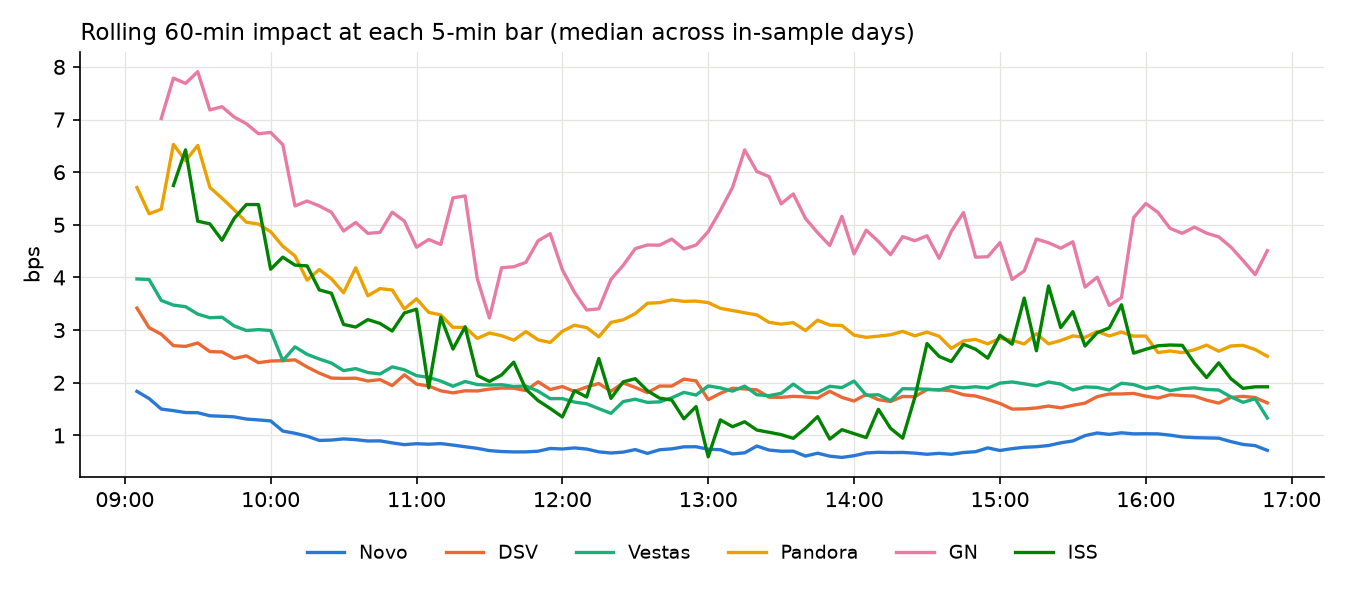
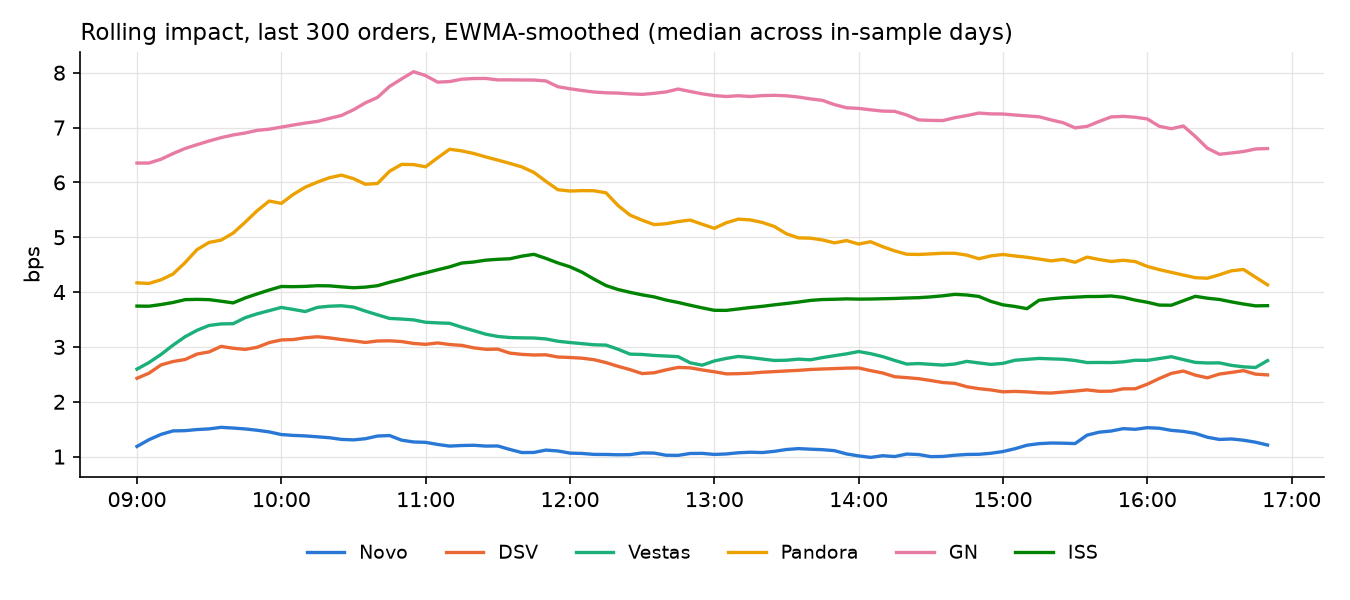
Use last-300-orders rolling impact with EWMA smoothing

diff --git a/analysis/05_price_impact.py b/analysis/05_price_impact.py
@@ -269,32 +269,46 @@ plt.close(fig)
 
 # %% [markdown]
 # ## Intraday rolling impact (joinable to bars_5min on stock + ts)
-# At each 5-min bar start tau, re-estimated from orders in [tau - 60 min, tau)
-# whose mid return is complete before tau (same day only; the 09:00 bar is NaN).
-# - reg: mid return on sign_t..sign_{t-5}, impact = sum of coefficients (>= 50 orders)
-# - var: Hasbrouck VAR(5), 20-order cumulative IRF (>= 100 orders)
+# At each 5-min bar start tau: Hasbrouck VAR(5) on the last N_ROLL orders whose
+# mid return is complete before tau (window may span the previous day; returns
+# and lags never cross a day), 20-order cumulative IRF. Smoothed with an EWMA
+# over bars (half-life EWM_HALFLIFE bars, fixed a priori), which uses only
+# current and past estimates.
 
 # %% Rolling estimates
+N_ROLL, EWM_HALFLIFE = 300, 6
 bars5 = pd.read_parquet(
     config.PROCESSED / "bars_5min.parquet", columns=["stock", "date", "ts", "sample"]
 )
 roll = []
 for stock in config.STOCKS:
     ev = order_events(pd.read_parquet(config.PROCESSED / f"signed_{stock}.parquet"))
-    starts = bars5.loc[bars5["stock"] == stock, "ts"]
-    roll.append(rolling_impact(ev, starts).assign(stock=stock))
+    r = rolling_impact(ev, bars5.loc[bars5["stock"] == stock, "ts"], n_orders=N_ROLL)
+    r["impact_roll_ewm_bps"] = (
+        r["impact_roll_var_bps"].ewm(halflife=EWM_HALFLIFE, ignore_na=True).mean()
+    )
+    roll.append(r.assign(stock=stock))
 roll = bars5.merge(pd.concat(roll, ignore_index=True), on=["stock", "ts"], how="left")
+roll["roll_window_min"] = roll["roll_window_span"].dt.total_seconds() / 60
 roll[
-    ["stock", "ts", "impact_roll_reg_bps", "impact_roll_var_bps", "roll_n_orders"]
+    ["stock", "ts", "impact_roll_var_bps", "impact_roll_ewm_bps", "roll_window_min"]
 ].to_parquet(config.PROCESSED / "impact_intraday_5min.parquet", index=False)
-cov = roll.groupby("stock")[["impact_roll_reg_bps", "impact_roll_var_bps"]].apply(
-    lambda x: 100 * x.notna().mean()
+cov = (
+    roll.groupby("stock")
+    .agg(
+        pct_bars_raw=("impact_roll_var_bps", lambda x: 100 * x.notna().mean()),
+        pct_bars_ewm=("impact_roll_ewm_bps", lambda x: 100 * x.notna().mean()),
+        first_estimate=(
+            "ts",
+            lambda x: x[roll.loc[x.index, "impact_roll_var_bps"].notna()].min(),
+        ),
+        median_window_min=("roll_window_min", "median"),
+        pct_windows_span_prev_day=("roll_window_min", lambda x: 100 * (x > 475).mean()),
+    )
+    .reindex(list(config.STOCKS))
 )
-print(
-    "Coverage, % of 5-min bars with an estimate:\n",
-    cov.reindex(list(config.STOCKS)).round(1).to_string(),
-    "\n",
-)
+cov.to_csv(config.TABLES / "05_intraday_impact_coverage.csv", float_format="%.1f")
+print(f"Coverage of the last-{N_ROLL}-orders impact:\n", cov.round(1).to_string(), "\n")
 
 # %% Within-stock variation and persistence vs the daily VAR (in-sample)
 r_is = roll[roll["sample"] == "IS"].copy()
@@ -311,18 +325,16 @@ for stock in config.STOCKS:
         "daily_var_sd_across_days": dv.std(),
         "daily_var_ar1": dv.autocorr(),
     }
-    for m in ["impact_roll_reg_bps", "impact_roll_var_bps"]:
+    for m, tag in [("impact_roll_var_bps", "raw"), ("impact_roll_ewm_bps", "ewm")]:
         x = s[m]
         within = x - s.groupby("date")[m].transform("mean")
-        g = s.groupby("date")[m]
-        day_mean = g.mean()
-        tag = "reg" if "reg" in m else "var"
+        day_mean = s.groupby("date")[m].mean()
         row |= {
             f"{tag}_mean": x.mean(),
             f"{tag}_sd": x.std(),
             f"{tag}_pct_var_within_day": 100 * within.var() / x.var(),
-            f"{tag}_ac_5min": x.corr(g.shift(1)),
-            f"{tag}_ac_60min": x.corr(g.shift(12)),  # non-overlapping windows
+            f"{tag}_ac_1bar": x.autocorr(1),
+            f"{tag}_ac_12bars": x.autocorr(12),
             f"{tag}_daymean_ar1": day_mean.autocorr(),
             f"{tag}_corr_daymean_vs_daily_var": day_mean.corr(
                 daily_var.loc[stock].reindex(day_mean.index)
@@ -337,9 +349,9 @@ print(
     "\n",
 )
 
-# %% Figure: intraday profile of the rolling impact (median by bar, in-sample)
+# %% Figure: intraday profile of the smoothed rolling impact (median by bar, in-sample)
 prof = r_is.assign(minute=(r_is["ts"] - r_is["date"]).dt.total_seconds() / 60 - 540)
-prof = prof.groupby(["stock", "minute"])["impact_roll_reg_bps"].median()
+prof = prof.groupby(["stock", "minute"])["impact_roll_ewm_bps"].median()
 fig, ax = plt.subplots(figsize=(9, 4))
 for stock in config.STOCKS:
     ax.plot(
@@ -349,7 +361,7 @@ ticks = np.arange(0, 481, 60)
 ax.set_xticks(ticks, [f"{9 + t // 60:02d}:00" for t in ticks])
 ax.set_ylabel("bps")
 ax.set_title(
-    "Rolling 60-min impact at each 5-min bar (median across in-sample days)",
+    f"Rolling impact, last {N_ROLL} orders, EWMA-smoothed (median across in-sample days)",
     loc="left",
     fontsize=11,
 )

diff --git a/tests/test_impact.py b/tests/test_impact.py
@@ -55,34 +55,60 @@ def test_order_events_return_stops_at_day_end():
     )  # last order of each day
 
 
+def _sim_orders(days, n_per_day, seed=0):
+    rng = np.random.default_rng(seed)
+    frames = []
+    for day in days:
+        ts = (
+            pd.Timestamp(day)
+            + pd.Timedelta("09:00:00")
+            + pd.to_timedelta(np.sort(rng.uniform(0, 7200, n_per_day)), unit="s")
+        )
+        sign = rng.choice([-1, 1], n_per_day)
+        # pre-trade mid: order k moves the mid seen by order k+1
+        mid = 100 * np.exp(
+            np.r_[
+                0, np.cumsum(2e-4 * sign + 1e-4 * rng.standard_normal(n_per_day))[:-1]
+            ]
+        )
+        frames.append(
+            pd.DataFrame({"date": ts.normalize(), "ts": ts, "mid": mid, "sign": sign})
+        )
+    ev = pd.concat(frames, ignore_index=True)
+    ev["r_bps"] = np.log(ev.groupby("date")["mid"].shift(-1) / ev["mid"]) * 1e4
+    return ev
+
+
 def test_rolling_impact_uses_only_pre_bar_orders():
     from tifs_group_project.impact import rolling_impact
 
-    rng = np.random.default_rng(0)
-    n = 400
-    ts = pd.Timestamp("2026-10-01 09:00") + pd.to_timedelta(
-        np.sort(rng.uniform(0, 7200, n)), unit="s"
-    )
-    sign = rng.choice([-1, 1], n)
-    # pre-trade mid: order k moves the mid seen by order k+1
-    mid = 100 * np.exp(np.r_[0, np.cumsum(2e-4 * sign + 1e-4 * rng.standard_normal(n))[:-1]])
-    ev = pd.DataFrame({"date": ts.normalize(), "ts": ts, "mid": mid, "sign": sign})
-    ev["r_bps"] = np.log(ev["mid"].shift(-1) / ev["mid"]) * 1e4
+    ev = _sim_orders(["2026-10-01"], 400)
     tau = pd.Series([pd.Timestamp("2026-10-01 10:30")])
-    base = rolling_impact(ev, tau)
+    base = rolling_impact(ev, tau, n_orders=150)
 
     # scramble everything from tau onwards: the estimate at tau must not change
     later = ev["ts"] >= tau[0]
     ev2 = ev.copy()
     ev2.loc[later, "sign"] = -ev2.loc[later, "sign"]
     ev2.loc[later, "mid"] *= 1.01
-    ev2["r_bps"] = np.log(ev2["mid"].shift(-1) / ev2["mid"]) * 1e4
-    again = rolling_impact(ev2, tau)
-    assert base["roll_n_orders"].iloc[0] > 50
-    assert np.allclose(
-        base[["impact_roll_reg_bps", "impact_roll_var_bps"]],
-        again[["impact_roll_reg_bps", "impact_roll_var_bps"]],
+    ev2["r_bps"] = np.log(ev2.groupby("date")["mid"].shift(-1) / ev2["mid"]) * 1e4
+    again = rolling_impact(ev2, tau, n_orders=150)
+    assert np.isclose(
+        base["impact_roll_var_bps"].iloc[0], again["impact_roll_var_bps"].iloc[0]
     )
     assert (
-        base["impact_roll_reg_bps"].iloc[0] > 0
+        base["impact_roll_var_bps"].iloc[0] > 0
     )  # buys push the mid up in the simulated data
+
+
+def test_rolling_impact_window_spans_previous_day():
+    from tifs_group_project.impact import rolling_impact
+
+    ev = _sim_orders(["2026-10-01", "2026-10-02"], 200)
+    taus = pd.Series(pd.to_datetime(["2026-10-01 09:30", "2026-10-02 09:05"]))
+    out = rolling_impact(ev, taus, n_orders=150)
+    assert np.isnan(out["impact_roll_var_bps"].iloc[0])  # too few orders yet on day 1
+    assert (
+        out["impact_roll_var_bps"].notna().iloc[1]
+    )  # day 2 early: window reaches into day 1
+    assert out["roll_window_span"].iloc[1] > pd.Timedelta("1D") - pd.Timedelta("1h")

diff --git a/src/tifs_group_project/impact.py b/src/tifs_group_project/impact.py
@@ -139,47 +139,34 @@ def windows(dates: list, days: int) -> list[tuple]:
 def rolling_impact(
     ev: pd.DataFrame,
     bar_starts: pd.Series,
+    n_orders: int = 300,
     p_var: int = 5,
-    dl_lags: int = 5,
-    window: str = "60min",
     h: int = 20,
-    min_reg: int = 50,
-    min_var: int = 100,
 ) -> pd.DataFrame:
-    """Intraday impact at each bar start tau from orders in [tau - window, tau), same day.
+    """Intraday impact at each bar start tau: Hasbrouck VAR(p_var) on the last `n_orders` orders.
 
-    An order is used only if its mid return is complete before tau, i.e. the next
-    order (whose mid ends the return) also arrived before tau. Lagged regressors
-    may reach back before the window start (still pre-tau, same day).
-    - reg: r_k = a + sum_{i=0..dl_lags} lambda_i sign_{k-i}; impact = sum of lambdas.
-    - var: Hasbrouck VAR(p_var) on the window, h-order cumulative IRF.
+    An order is eligible only if its mid return is complete before tau, i.e. the
+    next order (whose mid ends the return) also arrived before tau. The window may
+    span the previous day(s); returns and VAR lags never cross a day boundary.
+    NaN until `n_orders` eligible orders exist (start of the sample).
     """
     ev = ev.sort_values("ts", kind="stable").reset_index(drop=True)
-    next_ts = ev.groupby("date")["ts"].shift(-1)
-    sl = np.column_stack([ev["sign"].to_numpy(float), _lags(ev, "sign", dl_lags)])
-    Xg = np.column_stack([np.ones(len(ev)), sl])
-    rt = ev["r_bps"].to_numpy(float)
-    ok_reg = ~np.isnan(np.column_stack([Xg, rt])).any(axis=1)
-    Xr, _, Xx, xt, ok_var = var_design(ev, "sign", p_var)
-    ts, nts = ev["ts"].to_numpy(), next_ts.to_numpy()
-    span = pd.Timedelta(window).to_timedelta64()
+    next_ts = ev.groupby("date")["ts"].shift(-1).to_numpy()
+    Xr, rt, Xx, xt, ok = var_design(ev, "sign", p_var)
+    rows = np.flatnonzero(
+        ok
+    )  # complete rows, in time order; their next_ts is increasing
+    nts = next_ts[rows]
 
     out = []
     for tau in bar_starts.to_numpy():
-        inw = (ts >= tau - span) & (
-            nts < tau
-        )  # NaT next_ts (last order of day) compares False
-        m_reg, m_var = inw & ok_reg, inw & ok_var
-        reg = var = np.nan
-        if m_reg.sum() >= min_reg:
-            coef, *_ = np.linalg.lstsq(Xg[m_reg], rt[m_reg], rcond=None)
-            reg = coef[1:].sum()
-        if m_var.sum() >= min_var:
-            var = cum_irf(
-                fit_design(Xr[m_var], rt[m_var], Xx[m_var], xt[m_var], p_var), h
-            )[h]
-        out.append((tau, reg, var, int(m_reg.sum())))
-    return pd.DataFrame(
-        out,
-        columns=["ts", "impact_roll_reg_bps", "impact_roll_var_bps", "roll_n_orders"],
-    )
+        k = np.searchsorted(
+            nts, tau, side="left"
+        )  # eligible rows: next order strictly before tau
+        imp, span = np.nan, pd.NaT
+        if k >= n_orders:
+            w = rows[k - n_orders : k]
+            imp = cum_irf(fit_design(Xr[w], rt[w], Xx[w], xt[w], p_var), h)[h]
+            span = pd.Timestamp(tau) - ev["ts"].iloc[w[0]]
+        out.append((tau, imp, span))
+    return pd.DataFrame(out, columns=["ts", "impact_roll_var_bps", "roll_window_span"])
